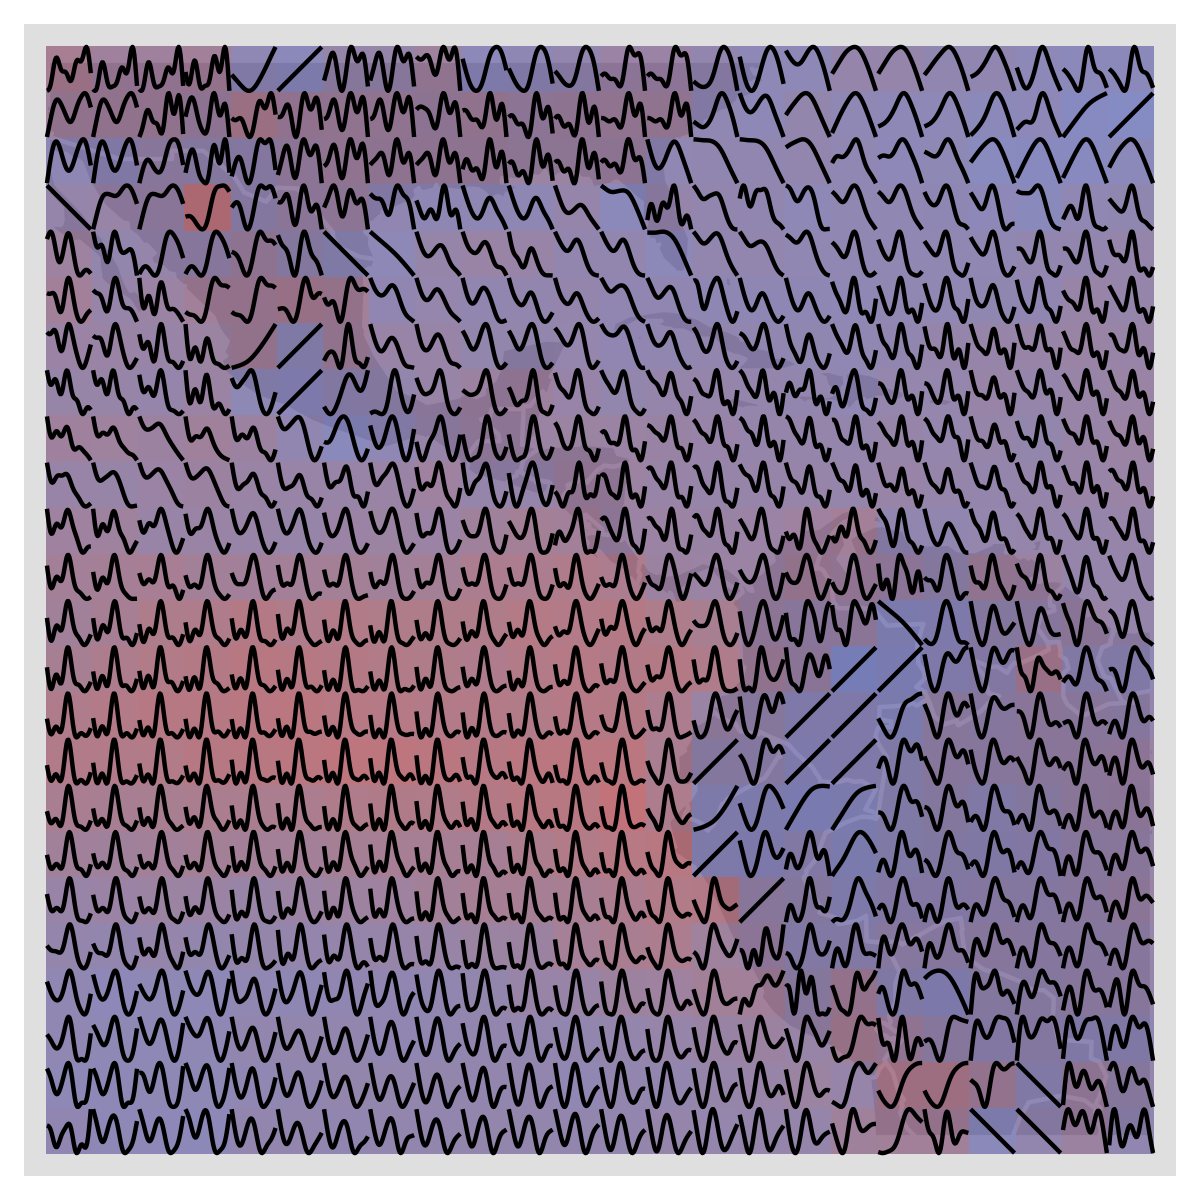
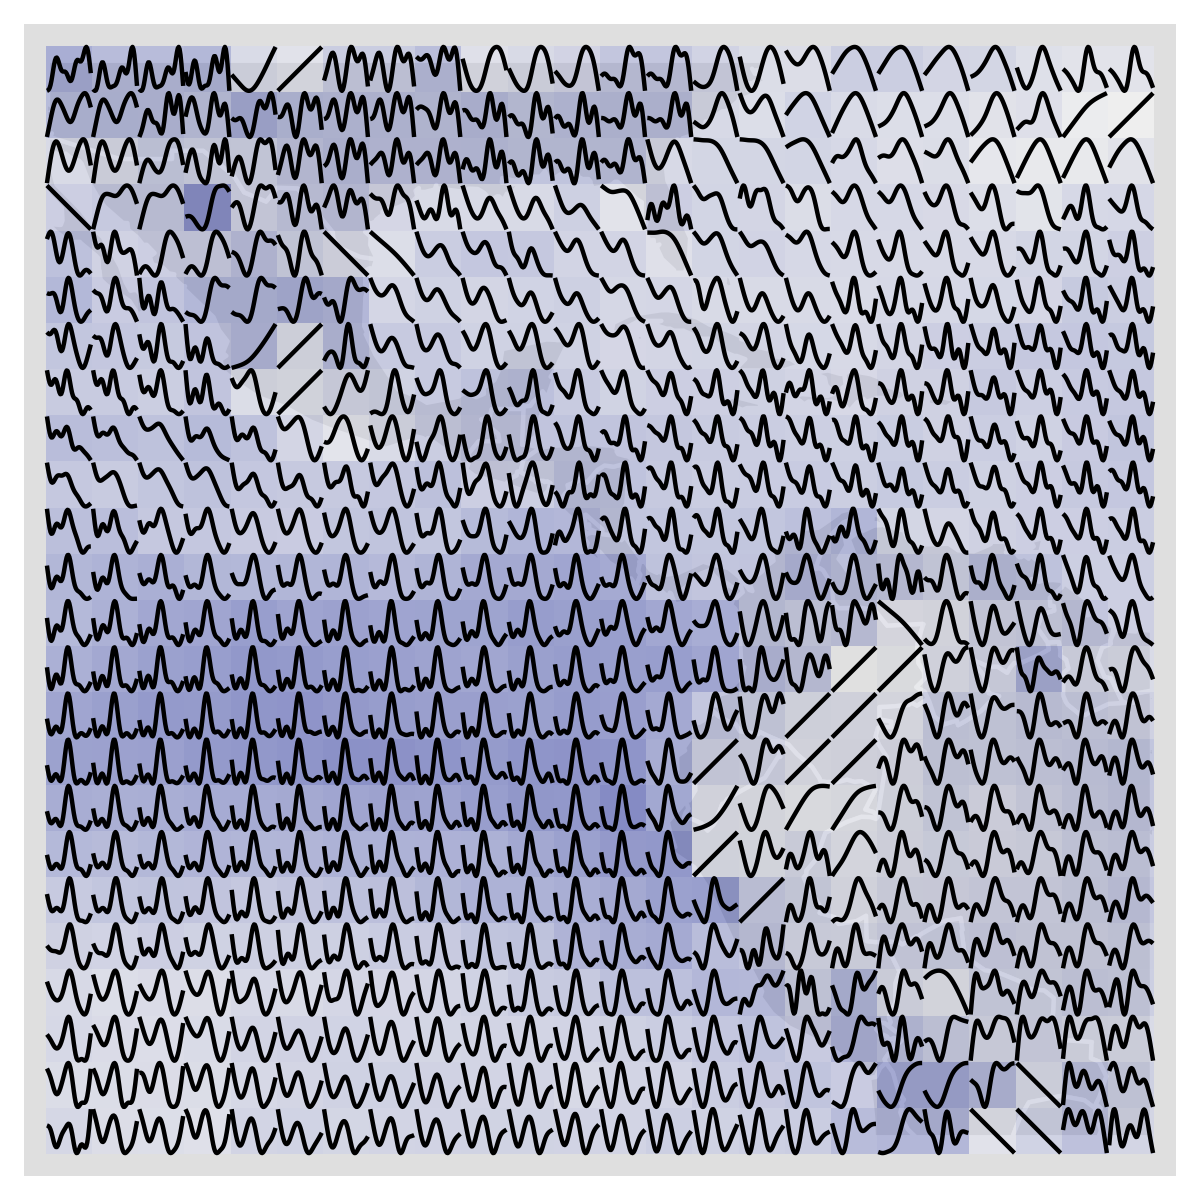
Tweaks to fig 6

diff --git a/paper.tex b/paper.tex
@@ -285,13 +285,13 @@ Other types of shifting and scaling can be useful:
 
 \end{itemize}
 
-Note that the use of local scales needs to be clearly marked. The viewer must realize that the scale is not relative and that big patterns in some locations might be just tiny effects. To indicate this on the locally scaled data plots, one can use an additional aesthetic, like colour, to encode the original scale.  This is illustrated in Figure~\ref{fig:scaling-col}.
+Note that the use of local scales needs to be clearly marked. The viewer must realize that the scale is not relative and that big patterns in some locations might be just tiny effects. To indicate this on the locally scaled data plots, one can use an additional aesthetic, like colour, to encode the range of original scale. This is illustrated in Figure~\ref{fig:scaling-col}.
 
 \begin{figure}[htbp]
  \centering
  \includegraphics[width=0.5\linewidth]{month-rescale01-col}%
  \includegraphics[width=0.5\linewidth]{month-rescale01-fill}
- \caption{Adding colour to scaled plots. Here each location has been scaled to range $[0, 1]$ and colour mapped to the range of the original predictions. Pale locations have smaller range than darker locations. Shapes at all locations are visible, but attention is drawn to locations with larger ranges.}
+ \caption{Adding colour to scaled plots. Here each location has been scaled to range $[0, 1]$ and colour mapped to the range of the original predictions. (Left) Range mapped to colour of line: pale locations have smaller range than darker locations. (Right) Range mapped to fill colour of grid box: blue boxes have larger ranges. Shapes at all locations are visible, but attention is drawn to locations with larger ranges.}
  \label{fig:scaling-col}
 \end{figure}
 
